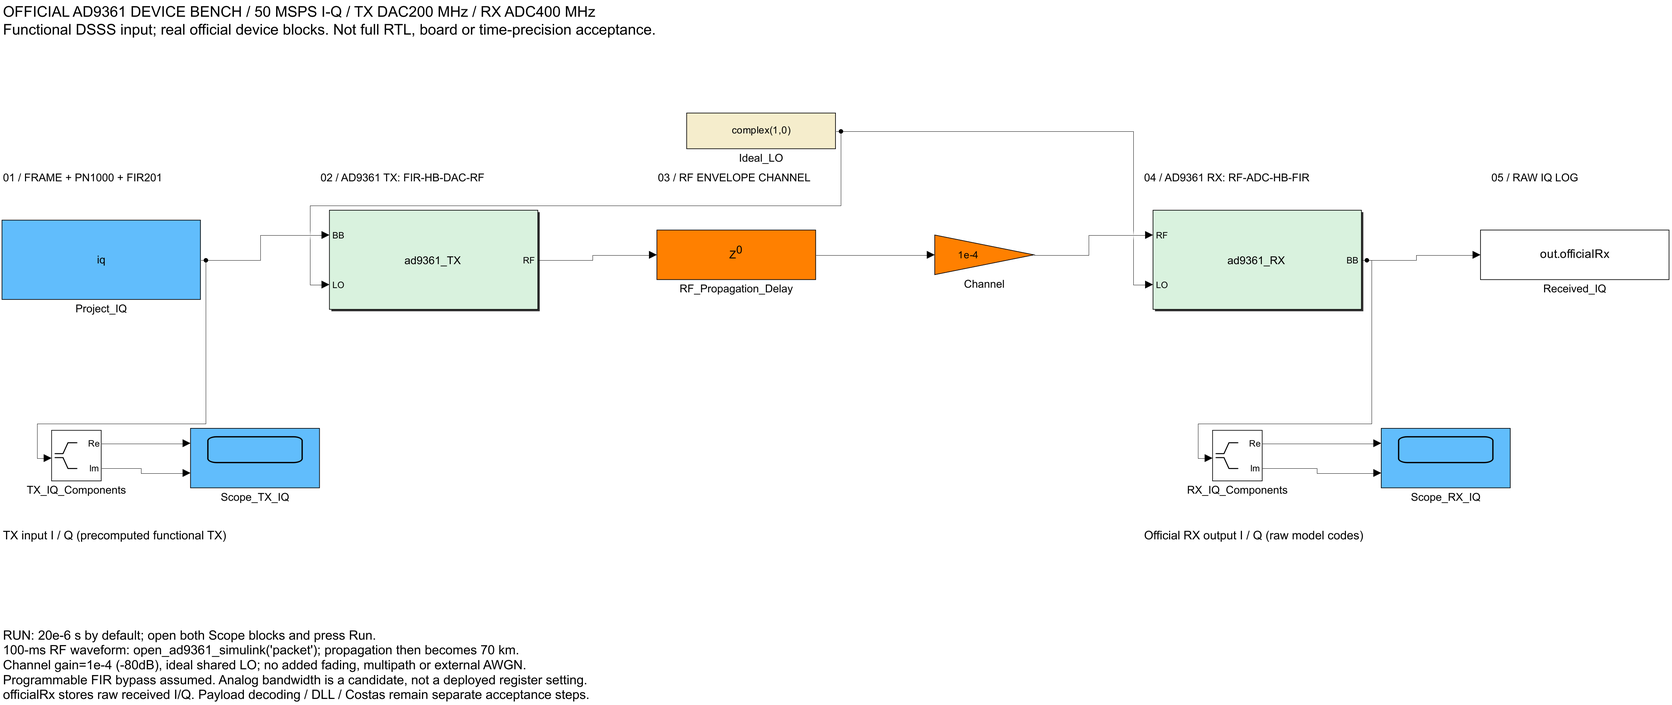
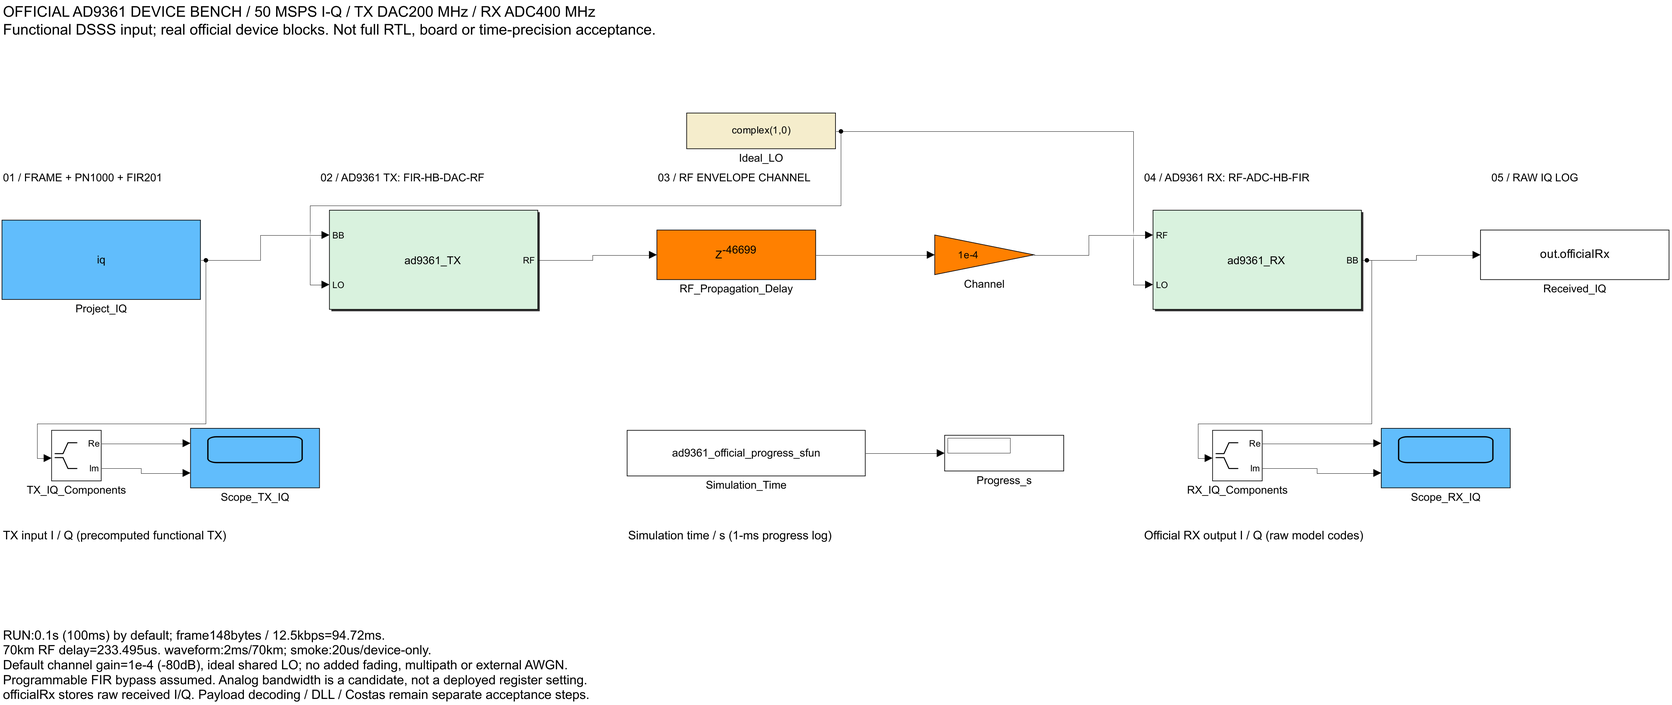
Update DSSS simulation gallery 2026-10-15

diff --git a/modules.html b/modules.html
@@ -2,9 +2,9 @@
 <title>仿真图与Simulink模块对应</title><style>body{margin:0;background:#f3f6fa;color:#1b2e45;font:16px/1.75 "Microsoft YaHei",sans-serif}main{max-width:1240px;margin:auto;padding:28px}a{color:#075fa7}h1{margin:0}h2{margin-top:40px}h3{margin:4px 0 12px}article{background:white;border:1px solid #dae2ec;border-radius:12px;padding:22px;margin:20px 0;scroll-margin-top:16px}code{font:14px/1.6 Consolas,monospace;overflow-wrap:anywhere;background:#eff4f8;padding:2px 4px}pre{white-space:pre-wrap;overflow-wrap:anywhere;background:#eff4f8;padding:12px;font:14px/1.7 Consolas,monospace}table{border-collapse:collapse;width:100%;margin:12px 0;font-size:14px}td,th{border:1px solid #dae2ec;padding:9px;text-align:left;vertical-align:top;overflow-wrap:anywhere}th{background:#eef4fa}nav a,.button{display:inline-block;margin:4px 9px 4px 0;padding:6px 12px;background:#e3edf7;border-radius:6px;text-decoration:none}.note{color:#536476}.scope{background:#fff4dc;padding:12px;border-left:4px solid #d39c32}.chain{display:flex;flex-wrap:wrap;gap:8px;align-items:center}.chain a{background:white;border:1px solid #b8cfe3;border-radius:8px;padding:12px}.figlinks li{margin:8px 0}summary{cursor:pointer;color:#075fa7}.model-diagram{margin:20px 0;padding:18px;background:white;border:1px solid #b8cfe3;border-radius:12px}.diagram-viewport{overflow:auto;border:1px solid #d8e2ee;background:white;max-height:760px}.diagram-viewport img{display:block;width:100%;max-width:none;height:auto}.diagram-toolbar button{cursor:pointer;border:0;border-radius:6px;padding:8px 14px;margin:4px;color:#075fa7;background:#e3edf7}.diagram-toolbar a{margin-left:10px}.groupnote{background:#e8f1fb;padding:16px;border-radius:8px}@media(max-width:650px){main{padding:14px}article{padding:14px}table{display:block;overflow:auto}}</style><main>
 <h1>仿真图 ↔ Simulink 模块</h1><p>按实际模块查找对应图片、端口和观察方法。</p>
 <nav><a href="completion.html">本轮校准与报文验证</a><a href="migration.html">四阶段迁移与验证</a><a href="00_图册索引.html">成果精选</a><a href="catalog.html">完整图册</a><a href="00_Simulink模块与仿真图说明.txt">文字说明</a><a href="00_图与Simulink模块对应.json">完整对应数据</a></nav>
-<p class="note">核对日期：2026-10-15 19:05:46（北京时间）。已用MATLAB读取4个现有模型；实际模型框图已导出，主链、有效信号和日志连线已整理；图中所有块名与下方清单一致。</p>
+<p class="note">核对日期：2026-10-15 19:35:05（北京时间）。已用MATLAB读取4个现有模型；实际模型框图已导出，主链、有效信号和日志连线已整理；图中所有块名与下方清单一致。</p>
 <p class="scope">当前主模型是6个Level-2 MATLAB S-function。一次模型执行为80 us，内部处理4000个50 MSPS样本或20000个250 MSPS样本；不是把Simulink步长设为4 ns的整链RTL仿真。S-function端口使用double容器表达整数码值。图由脚本绘制，不能一律称为Simulink Scope截图。</p>
-<p class="groupnote">布局核验：2026-10-15 19:05:44（北京时间），3个模型共57个块、60个输入连接；参数、连接关系和日志设置检查一致，三个模型均编译通过。数值回归另见各类仿真证据，模型图本身不代表硬件验证。</p>
+<p class="groupnote">布局核验：2026-10-15 19:35:03（北京时间），3个模型共59个块、61个输入连接；参数、连接关系和日志设置检查一致，三个模型均编译通过。数值回归另见各类仿真证据，模型图本身不代表硬件验证。</p>
 <nav>
 <a href="#group-ad">A · 当前 AD9361 功能模型</a>
 <a href="#group-rtl">B · 实际 RTL 导出对照模型</a>
@@ -582,16 +582,17 @@ hilite_system(&#x27;dsss_wireless_link/Costas_I_Q&#x27;,&#x27;find&#x27;);</pre>
 </details></article>
 <h2 id="group-official">E · 官方 AD9361 器件收发台架</h2>
 <p class="groupnote">模型文件：models/dsss_ad9361_official.slx；入口open_ad9361_simulink。官方器件收发台架，与A组完整通信功能参考明确区分。</p>
-<section class="model-diagram" id="diagram-official"><h3>实际 Simulink 模型框图</h3><p>models/dsss_ad9361_official.slx实际顶层结构，由MATLAB直接导出。入口open_ad9361_simulink.m；功能级组帧/PN1000/FIR201/抽取及量化预生成50MSPS输入，连接官方AD9361 TX FIR/HB/DAC/RF、RF传播延迟与固定衰减、官方RX RF/ADC/HB/FIR，配TX/RX I/Q Scope与officialRx日志。DAC200MHz/ADC400MHz，用户FIR旁路假设、理想公共LO、2GHz RF、-80dB固定衰减，默认20us不加传播延迟；100ms模式在200MSPS RF路径增加70km/c取整延迟46699点。模拟带宽与器件默认噪声/非线性未实物标定，无外加AWGN/多径/衰落/独立铷钟。该台架没有在线DLL/Costas/解帧；完整通信功能参考仍为原dsss_ad9361_link.mdl。与脚本短测的I/Q一致性及长模式初始化单独记录；长模式不等于完整载荷验收。不发布官方模型/IP源，仅展示顶层截图。 新MATLAB进程重新加载并运行20us，1001点与既有脚本的I/Q最大差值0；100ms仅验证输入长度及46699点延迟配置。长模式Scope使用1ms滑动窗口、Scroll绝对时间，不循环播放缓存波形；启动器再次调用时保留正在运行的模型参数。原三个模型名称与功能保留，新增的是器件物理链台架。</p><div class="diagram-toolbar"><button type="button" data-diagram="official" data-zoom="1">适合宽度</button><button type="button" data-diagram="official" data-zoom="2">放大 2 倍</button><button type="button" data-diagram="official" data-zoom="3">放大 3 倍</button><a href="00_%E5%AF%BC%E8%88%AA%E4%B8%8E%E6%96%B9%E6%A1%88%E8%AF%B4%E6%98%8E/21_%E5%AE%98%E6%96%B9AD9361_%E5%99%A8%E4%BB%B6%E6%94%B6%E5%8F%91Simulink%E6%A8%A1%E5%9E%8B.png" target="_blank" rel="noopener">打开高清原图 / 下载</a></div><p class="note">放大后可横向滚动查看。模型中的S-function内部算法解释见各模块卡片。</p><div class="diagram-viewport"><img id="image-official" loading="lazy" src="00_%E5%AF%BC%E8%88%AA%E4%B8%8E%E6%96%B9%E6%A1%88%E8%AF%B4%E6%98%8E/21_%E5%AE%98%E6%96%B9AD9361_%E5%99%A8%E4%BB%B6%E6%94%B6%E5%8F%91Simulink%E6%A8%A1%E5%9E%8B.png" alt="E · 官方 AD9361 器件收发台架实际模块及连线"></div></section>
+<section class="model-diagram" id="diagram-official"><h3>实际 Simulink 模型框图</h3><p>models/dsss_ad9361_official.slx实际顶层，由MATLAB直接导出；入口open_ad9361_simulink.m，独立构建器build_ad9361_official_simulink.m。默认100ms/70km：148字节在12.5kbps下占94.72ms，另含约233.495us传播时间。waveform模式2ms/70km供波形观察；smoke模式20us/零距离仅做数值回归。功能级组帧/PN1000/FIR201/抽取及量化预生成50MSPS输入，连接官方AD9361 TX FIR/HB/DAC/RF、RF路径Delay/Gain、官方RX RF/ADC/HB/FIR，输出TX/RX Scope、officialRx和Simulation_Time。DAC200MHz/ADC400MHz，RF2GHz，理想公共LO，固定幅度衰减1e-4(-80dB)；70km传播在200MSPS路径取整为46699点，距离与StopTime独立。模拟带宽8/12.5MHz为候选规格，器件噪声非线性未实物标定；无外加AWGN/多径/衰落/独立铷钟。Scope使用1ms Scroll累计时间窗口及有界显示历史，进度每1ms记录；完整源数据在运行初始化时生成，不重复播放保存的12000点预览。新进程20us回归1001点与已验证脚本I/Q最大差值0；100ms初始化5,008,000输入点通过。100ms是已保存配置，不等于长时运行或完整载荷验收；2ms/70km实际计算得到100001点、到达前后RMS分别27.7102/120.3938码值；重验绘图通过。台架无在线DLL/Costas/解帧，完整通信功能参考仍为dsss_ad9361_link.mdl；非真实RTL/实板/测时精度证明。原始三模型保留；公开仅顶层图与说明，不发布官方模型/IP。</p><div class="diagram-toolbar"><button type="button" data-diagram="official" data-zoom="1">适合宽度</button><button type="button" data-diagram="official" data-zoom="2">放大 2 倍</button><button type="button" data-diagram="official" data-zoom="3">放大 3 倍</button><a href="00_%E5%AF%BC%E8%88%AA%E4%B8%8E%E6%96%B9%E6%A1%88%E8%AF%B4%E6%98%8E/21_%E5%AE%98%E6%96%B9AD9361_%E5%99%A8%E4%BB%B6%E6%94%B6%E5%8F%91Simulink%E6%A8%A1%E5%9E%8B.png" target="_blank" rel="noopener">打开高清原图 / 下载</a></div><p class="note">放大后可横向滚动查看。模型中的S-function内部算法解释见各模块卡片。</p><div class="diagram-viewport"><img id="image-official" loading="lazy" src="00_%E5%AF%BC%E8%88%AA%E4%B8%8E%E6%96%B9%E6%A1%88%E8%AF%B4%E6%98%8E/21_%E5%AE%98%E6%96%B9AD9361_%E5%99%A8%E4%BB%B6%E6%94%B6%E5%8F%91Simulink%E6%A8%A1%E5%9E%8B.png" alt="E · 官方 AD9361 器件收发台架实际模块及连线"></div></section>
 <article id="official_source"><h3>E1 功能级 DSSS 激励</h3>
 <p><code>dsss_ad9361_official/Project_IQ</code></p>
 <p><a class="button" href="#diagram-official">查看本模块所在的实际模型图</a></p>
 <p>使用dsss_ad9361_step的组帧、PN1000、FIR201、抽取及12位量化结果；DSP逐采样源播放，不是HDL协同仿真。</p><table><tr><th>输入</th><td>按当前StopTime自动生成的项目功能TX数据。</td></tr><tr><th>输出</th><td>50 MSPS归一化复数I/Q。</td></tr>
-<tr><th>参数与尺度</th><td>默认20us；100ms模式用open_ad9361_simulink(&#x27;packet&#x27;)打开。</td></tr>
+<tr><th>参数与尺度</th><td>默认100ms/70km；waveform为2ms/70km，smoke为20us器件回环；帧148字节在12.5kbps下持续94.72ms。</td></tr>
 </table><p><strong>怎么看：</strong>双击Scope_TX_IQ查看输入的I/Q。</p><p class="scope"><strong>验证边界：</strong>不是实时运行的TX RTL；不包含AD9361模拟器件。</p>
 <p><strong>对应图：</strong></p><ul class="figlinks">
 <li><a href="00_%E5%AF%BC%E8%88%AA%E4%B8%8E%E6%96%B9%E6%A1%88%E8%AF%B4%E6%98%8E/21_%E5%AE%98%E6%96%B9AD9361_%E5%99%A8%E4%BB%B6%E6%94%B6%E5%8F%91Simulink%E6%A8%A1%E5%9E%8B.png">21_官方AD9361_器件收发Simulink模型.png</a> — 登记的新图对应模块；场景及信号说明见图注</li>
-</ul><details><summary>实现位置与本地定位命令</summary><p class="note">open_ad9361_simulink.m；fpga_ad9361/tools/run_official_ad9361_chain.m；fpga_ad9361/tools/ad9361_official_model_init.m</p>
+<li><a href="08_MATLAB_Simulink_RTL%E5%AF%B9%E7%85%A7/38_%E5%AE%98%E6%96%B9AD9361_70km_2ms%E8%BF%9E%E7%BB%AD%E6%B3%A2%E5%BD%A2.png">38_官方AD9361_70km_2ms连续波形.png</a> — 登记的新图对应模块；场景及信号说明见图注</li>
+</ul><details><summary>实现位置与本地定位命令</summary><p class="note">open_ad9361_simulink.m；fpga_ad9361/tools/build_ad9361_official_simulink.m；fpga_ad9361/tools/ad9361_official_model_init.m；fpga_ad9361/tools/ad9361_official_progress_sfun.m；fpga_ad9361/tools/ad9361_official_model_presave.m</p>
 <pre>open_ad9361_simulink;
 hilite_system(&#x27;dsss_ad9361_official/Project_IQ&#x27;,&#x27;find&#x27;);</pre>
 </details></article>
@@ -606,7 +607,8 @@ hilite_system(&#x27;dsss_ad9361_official/Project_IQ&#x27;,&#x27;find&#x27;);</pr
 </table><p><strong>怎么看：</strong>Scope_RX_IQ看输出；TX和RX的掩码对话框查看器件配置。</p><p class="scope"><strong>验证边界：</strong>50MSPS，DAC200MHz，ADC400MHz；用户FIR按旁路假设，默认噪声/非线性未标定。不是FPGA逐拍或板级实测。</p>
 <p><strong>对应图：</strong></p><ul class="figlinks">
 <li><a href="00_%E5%AF%BC%E8%88%AA%E4%B8%8E%E6%96%B9%E6%A1%88%E8%AF%B4%E6%98%8E/21_%E5%AE%98%E6%96%B9AD9361_%E5%99%A8%E4%BB%B6%E6%94%B6%E5%8F%91Simulink%E6%A8%A1%E5%9E%8B.png">21_官方AD9361_器件收发Simulink模型.png</a> — 登记的新图对应模块；场景及信号说明见图注</li>
-</ul><details><summary>实现位置与本地定位命令</summary><p class="note">open_ad9361_simulink.m；fpga_ad9361/tools/run_official_ad9361_chain.m；fpga_ad9361/tools/ad9361_official_model_init.m</p>
+<li><a href="08_MATLAB_Simulink_RTL%E5%AF%B9%E7%85%A7/38_%E5%AE%98%E6%96%B9AD9361_70km_2ms%E8%BF%9E%E7%BB%AD%E6%B3%A2%E5%BD%A2.png">38_官方AD9361_70km_2ms连续波形.png</a> — 登记的新图对应模块；场景及信号说明见图注</li>
+</ul><details><summary>实现位置与本地定位命令</summary><p class="note">open_ad9361_simulink.m；fpga_ad9361/tools/build_ad9361_official_simulink.m；fpga_ad9361/tools/ad9361_official_model_init.m；fpga_ad9361/tools/ad9361_official_progress_sfun.m；fpga_ad9361/tools/ad9361_official_model_presave.m</p>
 <pre>open_ad9361_simulink;
 hilite_system(&#x27;dsss_ad9361_official/TX&#x27;,&#x27;find&#x27;);</pre>
 </details></article>
@@ -614,12 +616,13 @@ hilite_system(&#x27;dsss_ad9361_official/TX&#x27;,&#x27;find&#x27;);</pre>
 <p><code>dsss_ad9361_official/RF_Propagation_Delay</code></p>
 <p><code>dsss_ad9361_official/Channel</code></p>
 <p><a class="button" href="#diagram-official">查看本模块所在的实际模型图</a></p>
-<p>短测不加传播延迟；StopTime&gt;1ms时增加70km/c，在200MSPS RF路径上取整为46699点。固定幅度1e-4等于-80dB。</p><table><tr><th>输入</th><td>官方TX的200MSPS RF复包络。</td></tr><tr><th>输出</th><td>延迟和衰减后的RF复包络。</td></tr>
+<p>默认100ms和2ms波形模式均为70km/c，在200MSPS RF路径取整为46699点。smoke显式使用零距离。距离由benchDistance_m独立指定，仅修改StopTime不会改变信道。固定幅度1e-4等于-80dB。</p><table><tr><th>输入</th><td>官方TX的200MSPS RF复包络。</td></tr><tr><th>输出</th><td>延迟和衰减后的RF复包络。</td></tr>
 <tr><th>参数与尺度</th><td>Channel增益可在块参数中改；短测与100ms模式的传播条件明确分开。</td></tr>
 </table><p><strong>怎么看：</strong>查看RF_Propagation_Delay与Channel参数；benchInfo给出时延取整误差。</p><p class="scope"><strong>验证边界：</strong>不是70km实测链路预算；没有额外衰落、多径、外加AWGN或独立铷钟LO。不是几百ps精度验收。</p>
 <p><strong>对应图：</strong></p><ul class="figlinks">
 <li><a href="00_%E5%AF%BC%E8%88%AA%E4%B8%8E%E6%96%B9%E6%A1%88%E8%AF%B4%E6%98%8E/21_%E5%AE%98%E6%96%B9AD9361_%E5%99%A8%E4%BB%B6%E6%94%B6%E5%8F%91Simulink%E6%A8%A1%E5%9E%8B.png">21_官方AD9361_器件收发Simulink模型.png</a> — 登记的新图对应模块；场景及信号说明见图注</li>
-</ul><details><summary>实现位置与本地定位命令</summary><p class="note">open_ad9361_simulink.m；fpga_ad9361/tools/run_official_ad9361_chain.m；fpga_ad9361/tools/ad9361_official_model_init.m</p>
+<li><a href="08_MATLAB_Simulink_RTL%E5%AF%B9%E7%85%A7/38_%E5%AE%98%E6%96%B9AD9361_70km_2ms%E8%BF%9E%E7%BB%AD%E6%B3%A2%E5%BD%A2.png">38_官方AD9361_70km_2ms连续波形.png</a> — 登记的新图对应模块；场景及信号说明见图注</li>
+</ul><details><summary>实现位置与本地定位命令</summary><p class="note">open_ad9361_simulink.m；fpga_ad9361/tools/build_ad9361_official_simulink.m；fpga_ad9361/tools/ad9361_official_model_init.m；fpga_ad9361/tools/ad9361_official_progress_sfun.m；fpga_ad9361/tools/ad9361_official_model_presave.m</p>
 <pre>open_ad9361_simulink;
 hilite_system(&#x27;dsss_ad9361_official/RF_Propagation_Delay&#x27;,&#x27;find&#x27;);</pre>
 </details></article>
@@ -627,13 +630,16 @@ hilite_system(&#x27;dsss_ad9361_official/RF_Propagation_Delay&#x27;,&#x27;find&#
 <p><code>dsss_ad9361_official/Scope_TX_IQ</code></p>
 <p><code>dsss_ad9361_official/Scope_RX_IQ</code></p>
 <p><code>dsss_ad9361_official/Received_IQ</code></p>
+<p><code>dsss_ad9361_official/Simulation_Time</code></p>
+<p><code>dsss_ad9361_official/Progress_s</code></p>
 <p><a class="button" href="#diagram-official">查看本模块所在的实际模型图</a></p>
-<p>双击Scope后点击Run；默认20us用于通路观察，不把短测当完整报文。</p><table><tr><th>输入</th><td>TX输入、官方RX输出的I/Q。</td></tr><tr><th>输出</th><td>两个可打开的Scope与officialRx时序数据。</td></tr>
+<p>双击Scope后点击Run；默认100ms包含整帧发送，Scope按1ms滑动窗口显示。Progress_s每1ms更新累计仿真时间；命令窗口和按PID分开的JSON记录实际进度。时长达到不等于载荷或测时验收。</p><table><tr><th>输入</th><td>TX输入、官方RX输出的I/Q。</td></tr><tr><th>输出</th><td>两个可打开的Scope与officialRx时序数据。</td></tr>
 <tr><th>日志位置</th><td>officialRx为50MSPS原始复数输出；没有推定为时间同步结果。</td></tr>
 </table><p><strong>怎么看：</strong>先看I/Q是否连续、有无饱和或启动瞬态。</p><p class="scope"><strong>验证边界：</strong>本台架不含在线DLL/Costas/帧解析；完整功能接收机仍在A组模型中，完整官方报文另行验收。</p>
 <p><strong>对应图：</strong></p><ul class="figlinks">
 <li><a href="00_%E5%AF%BC%E8%88%AA%E4%B8%8E%E6%96%B9%E6%A1%88%E8%AF%B4%E6%98%8E/21_%E5%AE%98%E6%96%B9AD9361_%E5%99%A8%E4%BB%B6%E6%94%B6%E5%8F%91Simulink%E6%A8%A1%E5%9E%8B.png">21_官方AD9361_器件收发Simulink模型.png</a> — 登记的新图对应模块；场景及信号说明见图注</li>
-</ul><details><summary>实现位置与本地定位命令</summary><p class="note">open_ad9361_simulink.m；fpga_ad9361/tools/run_official_ad9361_chain.m；fpga_ad9361/tools/ad9361_official_model_init.m</p>
+<li><a href="08_MATLAB_Simulink_RTL%E5%AF%B9%E7%85%A7/38_%E5%AE%98%E6%96%B9AD9361_70km_2ms%E8%BF%9E%E7%BB%AD%E6%B3%A2%E5%BD%A2.png">38_官方AD9361_70km_2ms连续波形.png</a> — 登记的新图对应模块；场景及信号说明见图注</li>
+</ul><details><summary>实现位置与本地定位命令</summary><p class="note">open_ad9361_simulink.m；fpga_ad9361/tools/build_ad9361_official_simulink.m；fpga_ad9361/tools/ad9361_official_model_init.m；fpga_ad9361/tools/ad9361_official_progress_sfun.m；fpga_ad9361/tools/ad9361_official_model_presave.m</p>
 <pre>open_ad9361_simulink;
 hilite_system(&#x27;dsss_ad9361_official/Scope_TX_IQ&#x27;,&#x27;find&#x27;);</pre>
 </details></article>
@@ -690,9 +696,10 @@ hilite_system(&#x27;dsss_ad9361_official/Scope_TX_IQ&#x27;,&#x27;find&#x27;);</p
 <tr><td><code>TX_Frame_DSSS_FIR201_DUC</code></td><td>M-S-Function / 0→2</td><td>dsss_wireless_sfun；&#x27;tx&#x27;,dsss_wireless_cfg</td></tr>
 <tr><td><code>Wireless_70km_Independent_Clocks</code></td><td>M-S-Function / 1→2</td><td>dsss_wireless_sfun；&#x27;channel&#x27;,dsss_wireless_cfg</td></tr>
 </table></details>
-<details><summary>dsss_ad9361_official：11个顶层块</summary><table><tr><th>实际块名</th><th>类型 / 输入→输出端口数</th><th>函数或变量</th></tr>
+<details><summary>dsss_ad9361_official：13个顶层块</summary><table><tr><th>实际块名</th><th>类型 / 输入→输出端口数</th><th>函数或变量</th></tr>
 <tr><td><code>Channel</code></td><td>Gain / 1→1</td><td></td></tr>
 <tr><td><code>Ideal_LO</code></td><td>Constant / 0→1</td><td></td></tr>
+<tr><td><code>Progress_s</code></td><td>Display / 1→0</td><td></td></tr>
 <tr><td><code>Project_IQ</code></td><td>SubSystem / 0→1</td><td></td></tr>
 <tr><td><code>RF_Propagation_Delay</code></td><td>Delay / 1→1</td><td></td></tr>
 <tr><td><code>RX</code></td><td>SubSystem / 2→1</td><td></td></tr>
@@ -700,6 +707,7 @@ hilite_system(&#x27;dsss_ad9361_official/Scope_TX_IQ&#x27;,&#x27;find&#x27;);</p
 <tr><td><code>Received_IQ</code></td><td>ToWorkspace / 1→0</td><td>officialRx</td></tr>
 <tr><td><code>Scope_RX_IQ</code></td><td>Scope / 2→0</td><td></td></tr>
 <tr><td><code>Scope_TX_IQ</code></td><td>Scope / 2→0</td><td></td></tr>
+<tr><td><code>Simulation_Time</code></td><td>M-S-Function / 0→1</td><td>ad9361_official_progress_sfun；benchProgressFile,benchStopTime</td></tr>
 <tr><td><code>TX</code></td><td>SubSystem / 2→1</td><td></td></tr>
 <tr><td><code>TX_IQ_Components</code></td><td>ComplexToRealImag / 1→2</td><td></td></tr>
 </table></details>
@@ -1210,5 +1218,13 @@ hilite_system(&#x27;dsss_ad9361_official/Scope_TX_IQ&#x27;,&#x27;find&#x27;);</p
 <details><summary>37_官方AD9361模型_当前代码时钟链短测.png</summary><p>已按登记信息关联模块；具体场景及信号说明：2026-10-15官方ad9361_tx/ad9361_rx模型scratch串联；当前control/ad9361_link_profile.h时钟链：I/Q50MSPS，TX DAC200MHz，RX ADC400MHz，BBPLL800MHz。官方固定HB+一阶单位用户FIR旁路假设；模拟带宽候选规格8/12.5MHz不是已部署配置。项目功能TX输入、RF2GHz、固定幅度增益1e-4(-80dB)、理想外部LO，无70km延迟/额外CFO/多径/外加白噪声；默认器件噪声非线性未标定。1001点达到20us且有有效输出；频谱为相对峰值，不是仪器dBm；起始尖峰保留。管理员解密返回124个标准MATLAB文件，经内容和原生SHA核对、备份恢复后重新运行。源run_official_ad9361_chain.m；plot_official_ad9361_signal_path.m画图；不是新Simulink交付模型，也不代表真实RTL整帧、实板或测时精度通过。</p>
 </details>
 <details><summary>21_官方AD9361_器件收发Simulink模型.png</summary><p>MATLAB print直接导出的实际Simulink顶层框图。包含真实块名和端口连线；S-function内部算法仍在MATLAB代码中，图中没有虚构内部子系统。</p>
+</details>
+<details><summary>38_官方AD9361_70km_2ms连续波形.png</summary><p>run_ad9361_waveform_observation实际运行已保存的dsss_ad9361_official.slx，读取officialRx并绘图；不是Scope截图，也不是缓存片段循环。默认100ms设置与本次2ms波形前缀验收明确分开。</p>
+<table><tr><th>位置</th><th>子图</th><th>取数节点</th><th>解释</th></tr>
+<tr><td>左上</td><td>20us冷启动之后至2ms的I/Q</td><td>officialRx实采样</td><td>累计仿真时间，不重放；竖线为设定70km/c时延。</td></tr>
+<tr><td>右上</td><td>信号到达附近200~280us</td><td>同一officialRx片段</td><td>包含器件滤波响应；竖线不是测量的到达时间。</td></tr>
+<tr><td>左下</td><td>连续接收末段20us放大</td><td>同一officialRx片段</td><td>没有另造短波形，也没有时间归零。</td></tr>
+<tr><td>右下</td><td>到达前后RMS</td><td>实际码值统计</td><td>不是仪器dBm或链路预算；未验收完整载荷。</td></tr>
+</table>
 </details>
 <script>document.querySelectorAll('[data-diagram][data-zoom]').forEach(button=>button.addEventListener('click',()=>{const image=document.getElementById('image-'+button.dataset.diagram);image.style.width=(100*Number(button.dataset.zoom))+'%';}));</script></main></html>

diff --git a/catalog.html b/catalog.html
@@ -204,7 +204,7 @@ img{width:100%;height:240px;object-fit:contain;background:#f8fafc}h3{font-size:1
 <p><strong>节点特性 · 当前参数→运算/系数→响应</strong><br>选中功能节点的实算特性或独立预算<br>FIR生成量化系数；Costas使用raw40事件；独立FFT/插值/时标不串入主链。</p>
 <p><strong>观测/参数 · 实际缓存波形、来源、生效范围</strong><br>连续原始窗口或符号事件<br>暂停冻结同一计算；无过采样的符号事件不虚构眼图，未观测的CDC/LVDS/RF信号不判PASS。</p>
 </details></article>
-<article data-era="current" data-modules="official_source official_device official_channel official_observe"><span class="badge">真实可运行Simulink器件台架：20us/1001点与脚本差值0；非整帧或实板验收</span><h3>21_官方AD9361_器件收发Simulink模型.png</h3><a href="00_%E5%AF%BC%E8%88%AA%E4%B8%8E%E6%96%B9%E6%A1%88%E8%AF%B4%E6%98%8E/21_%E5%AE%98%E6%96%B9AD9361_%E5%99%A8%E4%BB%B6%E6%94%B6%E5%8F%91Simulink%E6%A8%A1%E5%9E%8B.png" target="_blank"><img loading="lazy" src="00_%E5%AF%BC%E8%88%AA%E4%B8%8E%E6%96%B9%E6%A1%88%E8%AF%B4%E6%98%8E/21_%E5%AE%98%E6%96%B9AD9361_%E5%99%A8%E4%BB%B6%E6%94%B6%E5%8F%91Simulink%E6%A8%A1%E5%9E%8B.png" alt="21_官方AD9361_器件收发Simulink模型.png"></a><p>models/dsss_ad9361_official.slx实际顶层结构，由MATLAB直接导出。入口open_ad9361_simulink.m；功能级组帧/PN1000/FIR201/抽取及量化预生成50MSPS输入，连接官方AD9361 TX FIR/HB/DAC/RF、RF传播延迟与固定衰减、官方RX RF/ADC/HB/FIR，配TX/RX I/Q Scope与officialRx日志。DAC200MHz/ADC400MHz，用户FIR旁路假设、理想公共LO、2GHz RF、-80dB固定衰减，默认20us不加传播延迟；100ms模式在200MSPS RF路径增加70km/c取整延迟46699点。模拟带宽与器件默认噪声/非线性未实物标定，无外加AWGN/多径/衰落/独立铷钟。该台架没有在线DLL/Costas/解帧；完整通信功能参考仍为原dsss_ad9361_link.mdl。与脚本短测的I/Q一致性及长模式初始化单独记录；长模式不等于完整载荷验收。不发布官方模型/IP源，仅展示顶层截图。 新MATLAB进程重新加载并运行20us，1001点与既有脚本的I/Q最大差值0；100ms仅验证输入长度及46699点延迟配置。长模式Scope使用1ms滑动窗口、Scroll绝对时间，不循环播放缓存波形；启动器再次调用时保留正在运行的模型参数。原三个模型名称与功能保留，新增的是器件物理链台架。</p><p><strong>对应模块 / 图源：</strong></p><ul class="module-links">
+<article data-era="current" data-modules="official_source official_device official_channel official_observe"><span class="badge">真实Simulink器件台架：默认100ms/70km；20us回归与2ms波形通过，非整帧验收</span><h3>21_官方AD9361_器件收发Simulink模型.png</h3><a href="00_%E5%AF%BC%E8%88%AA%E4%B8%8E%E6%96%B9%E6%A1%88%E8%AF%B4%E6%98%8E/21_%E5%AE%98%E6%96%B9AD9361_%E5%99%A8%E4%BB%B6%E6%94%B6%E5%8F%91Simulink%E6%A8%A1%E5%9E%8B.png" target="_blank"><img loading="lazy" src="00_%E5%AF%BC%E8%88%AA%E4%B8%8E%E6%96%B9%E6%A1%88%E8%AF%B4%E6%98%8E/21_%E5%AE%98%E6%96%B9AD9361_%E5%99%A8%E4%BB%B6%E6%94%B6%E5%8F%91Simulink%E6%A8%A1%E5%9E%8B.png" alt="21_官方AD9361_器件收发Simulink模型.png"></a><p>models/dsss_ad9361_official.slx实际顶层，由MATLAB直接导出；入口open_ad9361_simulink.m，独立构建器build_ad9361_official_simulink.m。默认100ms/70km：148字节在12.5kbps下占94.72ms，另含约233.495us传播时间。waveform模式2ms/70km供波形观察；smoke模式20us/零距离仅做数值回归。功能级组帧/PN1000/FIR201/抽取及量化预生成50MSPS输入，连接官方AD9361 TX FIR/HB/DAC/RF、RF路径Delay/Gain、官方RX RF/ADC/HB/FIR，输出TX/RX Scope、officialRx和Simulation_Time。DAC200MHz/ADC400MHz，RF2GHz，理想公共LO，固定幅度衰减1e-4(-80dB)；70km传播在200MSPS路径取整为46699点，距离与StopTime独立。模拟带宽8/12.5MHz为候选规格，器件噪声非线性未实物标定；无外加AWGN/多径/衰落/独立铷钟。Scope使用1ms Scroll累计时间窗口及有界显示历史，进度每1ms记录；完整源数据在运行初始化时生成，不重复播放保存的12000点预览。新进程20us回归1001点与已验证脚本I/Q最大差值0；100ms初始化5,008,000输入点通过。100ms是已保存配置，不等于长时运行或完整载荷验收；2ms/70km实际计算得到100001点、到达前后RMS分别27.7102/120.3938码值；重验绘图通过。台架无在线DLL/Costas/解帧，完整通信功能参考仍为dsss_ad9361_link.mdl；非真实RTL/实板/测时精度证明。原始三模型保留；公开仅顶层图与说明，不发布官方模型/IP。</p><p><strong>对应模块 / 图源：</strong></p><ul class="module-links">
 <li><a href="modules.html#official_source">E1 功能级 DSSS 激励</a>：登记的新图对应模块；场景及信号说明见图注</li>
 <li><a href="modules.html#official_device">E2 官方 AD9361 TX / RX 器件模型</a>：登记的新图对应模块；场景及信号说明见图注</li>
 <li><a href="modules.html#official_channel">E3 RF传播与衰减</a>：登记的新图对应模块；场景及信号说明见图注</li>
@@ -684,6 +684,17 @@ img{width:100%;height:240px;object-fit:contain;background:#f8fafc}h3{font-size:1
 <li><a href="modules.html#ad_tx">01 发送：组帧、DSSS 扩频、FIR201 与抽取</a>：登记的新图对应模块；场景及信号说明见图注</li>
 <li><a href="modules.html#ad_rx">03 接收前端：signed12、插值5与FIR48</a>：登记的新图对应模块；场景及信号说明见图注</li>
 </ul><details class="panel-note"><summary>这张图从哪里取数 / 如何阅读</summary><p>已按登记信息关联模块；具体场景及信号说明：2026-10-15官方ad9361_tx/ad9361_rx模型scratch串联；当前control/ad9361_link_profile.h时钟链：I/Q50MSPS，TX DAC200MHz，RX ADC400MHz，BBPLL800MHz。官方固定HB+一阶单位用户FIR旁路假设；模拟带宽候选规格8/12.5MHz不是已部署配置。项目功能TX输入、RF2GHz、固定幅度增益1e-4(-80dB)、理想外部LO，无70km延迟/额外CFO/多径/外加白噪声；默认器件噪声非线性未标定。1001点达到20us且有有效输出；频谱为相对峰值，不是仪器dBm；起始尖峰保留。管理员解密返回124个标准MATLAB文件，经内容和原生SHA核对、备份恢复后重新运行。源run_official_ad9361_chain.m；plot_official_ad9361_signal_path.m画图；不是新Simulink交付模型，也不代表真实RTL整帧、实板或测时精度通过。</p>
+</details></article>
+<article data-era="current" data-modules="official_source official_device official_channel official_observe"><span class="badge">官方RF器件模型：实际2ms/100001点波形通过；默认100ms整帧尚未验收</span><h3>38_官方AD9361_70km_2ms连续波形.png</h3><a href="08_MATLAB_Simulink_RTL%E5%AF%B9%E7%85%A7/38_%E5%AE%98%E6%96%B9AD9361_70km_2ms%E8%BF%9E%E7%BB%AD%E6%B3%A2%E5%BD%A2.png" target="_blank"><img loading="lazy" src="08_MATLAB_Simulink_RTL%E5%AF%B9%E7%85%A7/38_%E5%AE%98%E6%96%B9AD9361_70km_2ms%E8%BF%9E%E7%BB%AD%E6%B3%A2%E5%BD%A2.png" alt="38_官方AD9361_70km_2ms连续波形.png"></a><p>2026-10-15实际运行已保存的models/dsss_ad9361_official.slx，读取officialRx；50MSPS I/Q，TX DAC200MHz/RX ADC400MHz、BBPLL800MHz；RF2GHz、固定幅度1e-4(-80dB)、理想公共LO、官方固定HB和单位用户FIR。70km/c=233.494867us，在200MSPS RF路径取整46699点；不是70km实测链路预算。实际仿真2ms、100001点，耗时692.5s；到达前20~200us复数RMS=27.7102码值，到达后300us起RMS=120.3938码值。左上排除前20us冷启动瞬态，其余原始数据全部保存在received_waveform.mat；右上放大传播等待和信号到达，左下为同一连续记录末段20us，右下为实际样本统计。源run_ad9361_waveform_observation.m；收尾保存冲突后的重验和制图复用已保留的同一次实际计算I/Q，未重复运行RF模型。验证StopTime从2ms改4ms不改变距离；100ms初始化生成5,008,000输入点，保存仅保留12000预览点并在InitFcn重新生成完整输入。默认100ms可覆盖148字节/12.5kbps的94.72ms发送时间及传播延迟，但本图仅为2ms前缀，不是完整报文、真实RTL、实板或ps精度验收。Scope按1ms Scroll累计时间显示，进度按1ms记录。模拟带宽候选8/12.5MHz和器件默认噪声/非线性未实物标定；无外加AWGN、多径、衰落、独立铷钟/抖动；台架无在线DLL/Costas/解帧。</p><p><strong>对应模块 / 图源：</strong></p><ul class="module-links">
+<li><a href="modules.html#official_source">E1 功能级 DSSS 激励</a>：登记的新图对应模块；场景及信号说明见图注</li>
+<li><a href="modules.html#official_device">E2 官方 AD9361 TX / RX 器件模型</a>：登记的新图对应模块；场景及信号说明见图注</li>
+<li><a href="modules.html#official_channel">E3 RF传播与衰减</a>：登记的新图对应模块；场景及信号说明见图注</li>
+<li><a href="modules.html#official_observe">E4 示波器与数据导出</a>：登记的新图对应模块；场景及信号说明见图注</li>
+</ul><details class="panel-note"><summary>这张图从哪里取数 / 如何阅读</summary><p>run_ad9361_waveform_observation实际运行已保存的dsss_ad9361_official.slx，读取officialRx并绘图；不是Scope截图，也不是缓存片段循环。默认100ms设置与本次2ms波形前缀验收明确分开。</p>
+<p><strong>左上 · 20us冷启动之后至2ms的I/Q</strong><br>officialRx实采样<br>累计仿真时间，不重放；竖线为设定70km/c时延。</p>
+<p><strong>右上 · 信号到达附近200~280us</strong><br>同一officialRx片段<br>包含器件滤波响应；竖线不是测量的到达时间。</p>
+<p><strong>左下 · 连续接收末段20us放大</strong><br>同一officialRx片段<br>没有另造短波形，也没有时间归零。</p>
+<p><strong>右下 · 到达前后RMS</strong><br>实际码值统计<br>不是仪器dBm或链路预算；未验收完整载荷。</p>
 </details></article>
 </div></section>
 <section data-category="9" id="c9"><h2>09_无线性能与鲁棒性</h2><p class="note">当前MATLAB可视化参数探索：自定义FIR、Costas、码率与信道；与历史旧方案场景分开。功能探索不等于真实RTL或70km无线性能验收。</p><div class="grid">

diff --git a/00_图册索引.html b/00_图册索引.html
@@ -22,7 +22,7 @@
     </style></head><body>
 <header class="top"><div class="wrap"><a class="brand" href="00_图册索引.html">DSSS / ENGINEERING REVIEW</a><nav aria-label="主导航"><a aria-current="page" href="00_图册索引.html">评审首页</a><a href="migration.html">工程主线</a><a href="modules.html">模型与模块</a><a href="node_lab.html">节点实验室</a><a href="precision_evidence.html">精度证据</a><a href="catalog.html">完整图册</a></nav></div></header>
 <div class="hero"><div class="wrap"><div class="hero-grid"><div><p class="eyebrow">LEGACY RTL → AD9361 · TRACEABLE ENGINEERING EVIDENCE</p><h1>接住原系统，解释关键误差，<br>把验证一路推进到可上板</h1><p class="lead">首页只回答技术评审最关心的三件事：原工程是否真正继承、80 ns与几百ps是否有可复跑证据、距离AD9361整机通信还剩哪些关卡。</p><div class="hero-actions"><a class="button primary" href="#verdict">先看评审结论 ↓</a><a class="button" href="#proofs">核对关键证据 →</a><a class="button" href="catalog.html">进入完整图册 →</a></div></div><div class="hero-note"><strong>当前总判断：算法链和RTL分段证据已形成</strong>80 ns机制可控复现，亚码片精测算术链已有RTL证据；AD9361完整波形RTL、板级接口、双机与70 km外场仍是独立验收门。</div></div>
-<div class="hero-foot"><span>评审版更新 2026-10-15</span><span>图册收录 111 个图文件</span><span>证据等级：功能模型 / 真实RTL分段 / 待硬件实测</span></div></div></div>
+<div class="hero-foot"><span>评审版更新 2026-10-15</span><span>图册收录 112 个图文件</span><span>证据等级：功能模型 / 真实RTL分段 / 待硬件实测</span></div></div></div>
 <main class="wrap">
 <section id="verdict"><div class="section-head"><div><h2>六个数字，先给出工程判断</h2><p>数字旁边直接写明证据类型，避免把功能仿真、RTL分段和硬件实测混为一谈。</p></div><a href="precision_evidence.html">查看时间精度数据来源 →</a></div><div class="verdict">
 <article class="metric ok"><small>发送段逐点对照 · RTL</small><strong>160,000</strong><p>DSP点对齐后误差 <b>0</b>；启动阶段存在19个有效零样本差异。</p></article>

diff --git a/index.html b/index.html
@@ -22,7 +22,7 @@
     </style></head><body>
 <header class="top"><div class="wrap"><a class="brand" href="00_图册索引.html">DSSS / ENGINEERING REVIEW</a><nav aria-label="主导航"><a aria-current="page" href="00_图册索引.html">评审首页</a><a href="migration.html">工程主线</a><a href="modules.html">模型与模块</a><a href="node_lab.html">节点实验室</a><a href="precision_evidence.html">精度证据</a><a href="catalog.html">完整图册</a></nav></div></header>
 <div class="hero"><div class="wrap"><div class="hero-grid"><div><p class="eyebrow">LEGACY RTL → AD9361 · TRACEABLE ENGINEERING EVIDENCE</p><h1>接住原系统，解释关键误差，<br>把验证一路推进到可上板</h1><p class="lead">首页只回答技术评审最关心的三件事：原工程是否真正继承、80 ns与几百ps是否有可复跑证据、距离AD9361整机通信还剩哪些关卡。</p><div class="hero-actions"><a class="button primary" href="#verdict">先看评审结论 ↓</a><a class="button" href="#proofs">核对关键证据 →</a><a class="button" href="catalog.html">进入完整图册 →</a></div></div><div class="hero-note"><strong>当前总判断：算法链和RTL分段证据已形成</strong>80 ns机制可控复现，亚码片精测算术链已有RTL证据；AD9361完整波形RTL、板级接口、双机与70 km外场仍是独立验收门。</div></div>
-<div class="hero-foot"><span>评审版更新 2026-10-15</span><span>图册收录 111 个图文件</span><span>证据等级：功能模型 / 真实RTL分段 / 待硬件实测</span></div></div></div>
+<div class="hero-foot"><span>评审版更新 2026-10-15</span><span>图册收录 112 个图文件</span><span>证据等级：功能模型 / 真实RTL分段 / 待硬件实测</span></div></div></div>
 <main class="wrap">
 <section id="verdict"><div class="section-head"><div><h2>六个数字，先给出工程判断</h2><p>数字旁边直接写明证据类型，避免把功能仿真、RTL分段和硬件实测混为一谈。</p></div><a href="precision_evidence.html">查看时间精度数据来源 →</a></div><div class="verdict">
 <article class="metric ok"><small>发送段逐点对照 · RTL</small><strong>160,000</strong><p>DSP点对齐后误差 <b>0</b>；启动阶段存在19个有效零样本差异。</p></article>
